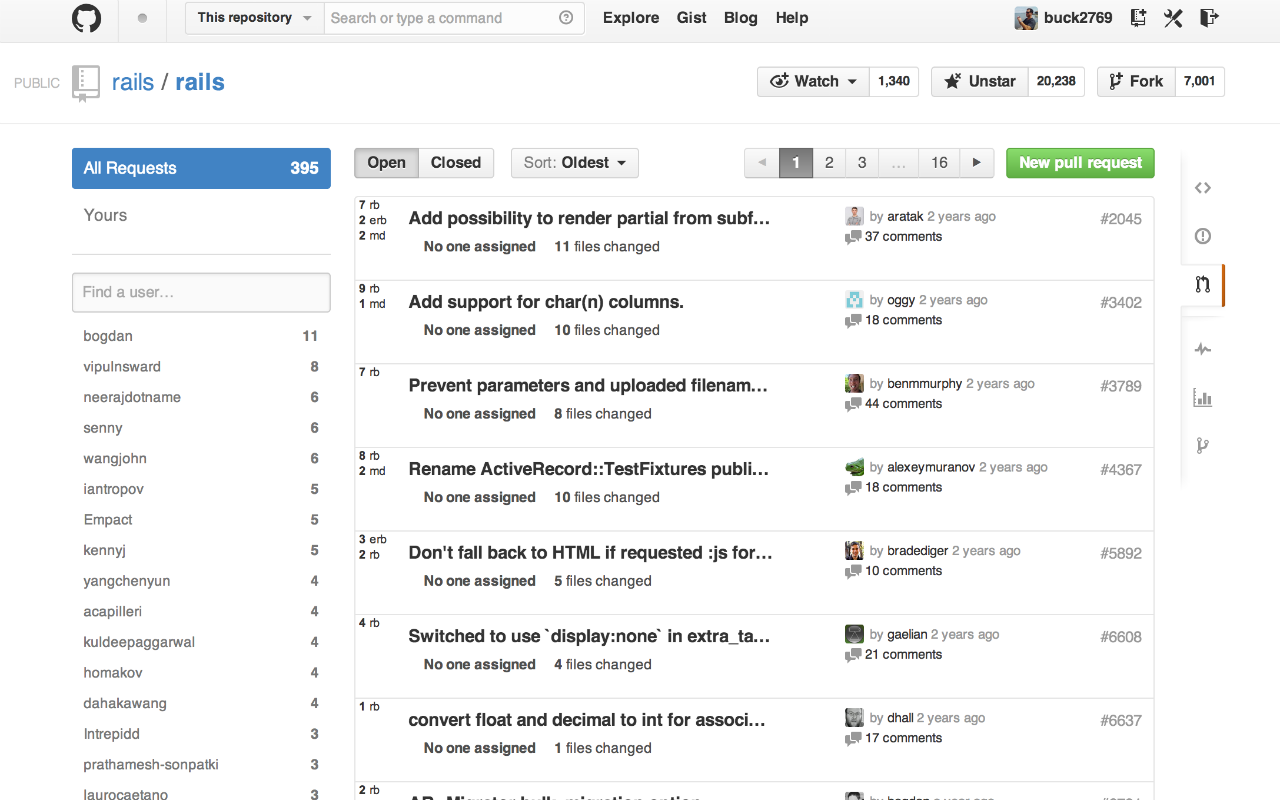
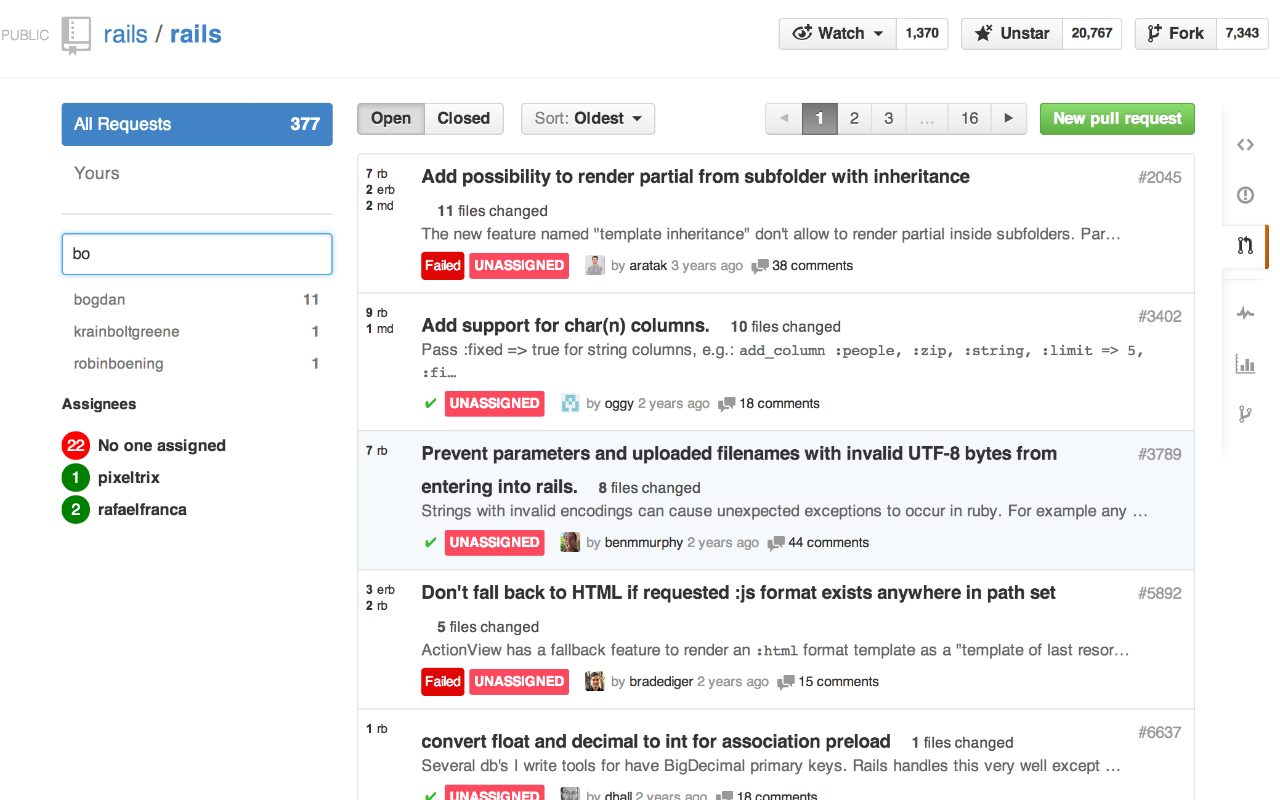
some styling changes for the better
- returned to the original layout
- nudged a few things around to accomodate the new features
- better display of information
- fixed assignee filtering

- [ ] create a minimal view
- [ ] add support for sass files in grunt
- [ ] add an easier way to distinguish the dominant files in the PR,
  ruby, javascript, python, c#, etc...

diff --git a/chrome/application.js b/chrome/application.js
@@ -12,7 +12,9 @@
   // TODO make the assignee keep track of it's pr elements
   function filterPrs(assignee) {
     $('.list-group-item').hide()
-      .filter(':contains("' + assignee.name + '")').show();
+      .filter(function(index){
+        return $(this).data('assignee-name') === assignee.name;
+      }).show();
   }
 
   function parseDocument(html){
@@ -54,7 +56,6 @@
       });
       this.$assignees.append(assignee.$el);
     } else {
-
       // TODO: DRY this up
       assignee = this.assignees[name];
     }
@@ -66,29 +67,48 @@
 
 
   function updatePR(details) {
-    var $prListItem, $prHeader, $assigneeName, $prSanity;
+    var $prListItem, $prHeader, $assigneeName, $prSanity, $meta, assigneeClass,
+      $prSanityMeta;
 
     // save details
     localStorage.setItem('pr:' + details.id, JSON.stringify(details));
     $prListItem = this;
     $prHeader = $prListItem.find('h4');
+    $meta     = $prListItem.find('.list-group-item-meta');
 
+    $prListItem.data('assignee-name', details.assignee);
     if ((/good to merge/im).test(details.status)) {
       $prListItem.addClass('passed');
     } else if ((/failed/im).test(details.status)) {
       $prListItem.addClass('failed');
     }
 
+    // just updating might be better
     $prListItem.find('.pr-sanity').remove();
+    $prListItem.find('*[class^="pr-sanity"]').remove();
 
     $prSanity = $('<div class="pr-sanity">' + 
-                    '<span class="pr-sanity-name">' + details.assignee + ' assigned</span>' + 
                     '<span class="files-changed">' + details.files_changed + '<span class="copy"> files changed</span></span>' +
-                    '<div class="status">' + details.status + '</div>' +
                     '<span class="updating" style="display:none">updating</span>' +
                   '</div>');
     $prListItem.find('.list-group-item-name').append($prSanity);
 
+    $prSanityMeta = $('<div class="pr-sanity-meta"></div>');
+    $prSanityMeta.append('<div class="pr-sanity-status"><span class="pass">&#10004;</span><span class="fail">' + details.status + '</span></div>');
+
+    // check for a passing message
+    if ((/all is well|pass/i).test(details.status)) {
+      $prSanityMeta.find('.pr-sanity-status').addClass('pr-sanity-passed');
+    }
+    // failing
+    if ((/fail/i).test(details.status)) {
+      $prSanityMeta.find('.pr-sanity-status').addClass('pr-sanity-fail');
+    }
+    
+    if ((/no one/i).test(details.assignee)) {
+      $prSanityMeta.append('<span class="pr-sanity-name pr-sanity-no-assignee">UNASSIGNED</span>');
+    }
+    $meta.prepend($prSanityMeta);
   }
 
   // add the assignee container
@@ -137,7 +157,7 @@
         prInfo.assignee = $prDoc.find('.js-assignee-infobar-item-wrapper').text().trim().replace(/ is assigned/i, '');
 
         // get status
-        prInfo.status = $prDoc.find('.merge-branch .branch-status').text().trim().split('—')[0];
+        prInfo.status = $prDoc.find('.branch-status').text().trim().split('—')[0];
         
         // get the files changed
         prInfo.files_changed = $prDoc.find('a[data-container-id="files_bucket"]').text().trim().replace(/[^\d]/gm, '');
@@ -147,6 +167,7 @@
         $prSanity = $prListItem.find('.pr-sanity');
         assigneeContainer.addAssignee({name: prInfo.assignee});
 
+        // TODO: cleanup nested promsises
         filesChangedXhr.done(function(res){
           var $doc, fileTypeCount, filesChanged, filesChanged,
             sorted, sortableFileTypeCounts;

diff --git a/chrome/github_pr.css b/chrome/github_pr.css
@@ -1,25 +1,12 @@
-li.list-group-item {
-  position: relative;
-  padding-left: 50px !important;
-}
-
-li.list-group-item.passed {
-  background-color: #ddffe8 !important;
-}
-
-li.list-group-item.failed {
-  background-color: #ffe5e5 !important;
-}
-
   .pr-sanity-file-type-counts {
     font: bold 10px Arial;
     height: 100%;
     left: 0; 
     list-style: none;
-    padding: 0 3px;
+    padding: 9px 6px;
     position: absolute;
     top: 0;
-    width: 40px;
+    width: 50px;
   }
 
     .pr-sanity-file-type-counts li {
@@ -49,10 +36,10 @@ li.list-group-item.failed {
   border-radius: 12px;
   color: #fff;
   display: inline-block;
-  height: 16px;
+  height: 23px;
   margin-right: .5em;
   padding: 3px;
-  width: 16px;
+  width: 23px;
   text-align: center;
 }
 
@@ -82,14 +69,14 @@ li.list-group-item.failed {
 
 .pr-sanity {
   color: #4f4f4f;
+  display: inline-block;
   font-size: 12px;
   font-weight: normal;
   height: 23px;
   line-height: 23px;
   left: 0;
-  overflow: hidden;
   padding: 4px 10px;
-  padding-top: 4px;
+  padding-top: 8px;
 }
 
   .pr-sanity .files-changed {
@@ -125,24 +112,54 @@ li.list-group-item.failed {
   color: green;
 }
 
-  .pr-sanity .status {
+  .pr-sanity-status {
     display: inline-block;
-    float: none !important;
+    margin-right: 4px;
   }
 
-.list-group-item-meta .branch-name {
+.list-group-item {
+  padding-left: 51px !important;
+}
+
+.list-group-item-name .type-icon {
+    display: none;
+}
+
+.list-group-item-meta .pr-sanity-name {
+  color: #fff;
+  padding: 4px;
+  border-radius: 2px;
+}
+
+.list-group-item-meta .pr-sanity-status {
+  color: #fff;
+  padding: 3px;
+  border-radius: 3px;
+}
+
+.list-group-item-meta .pr-sanity-status.pr-sanity-passed .fail {
   display: none;
 }
 
-.list-group-item-summary {
+.list-group-item-meta .pr-sanity-status .pass {
+  color: #35BF26;
+}
+
+.list-group-item-meta .pr-sanity-status.pr-sanity-fail .pass {
   display: none;
 }
 
-.list-group-item-name {
-  float: left;
-  width: 50%;
-  overflow: hidden;
-  white-space: nowrap;
-  text-overflow: ellipsis;
+.list-group-item-meta .pr-sanity-status.pr-sanity-fail {
+  background-color: #e00606;
 }
-text-overflow: ellipsis;
+
+.list-group-item-meta .pr-sanity-no-assignee {
+  background-color: #fc495e;
+}
+.list-group-item-meta .pr-sanity-assignee {
+  background-color: #3fc2ff;
+}
+
+.pr-sanity-meta {
+  display: inline-block;
+}

diff --git a/Gruntfile.js b/Gruntfile.js
@@ -21,7 +21,8 @@ module.exports = function(grunt){
     compress: {
       main: {
         options: {
-          archive: 'pr-sanity.zip'
+          archive: 'pr-sanity.zip',
+          mode: 'zip'
         },
         files: [
           {src: ['pr-sanity/**'], dest: './'}
